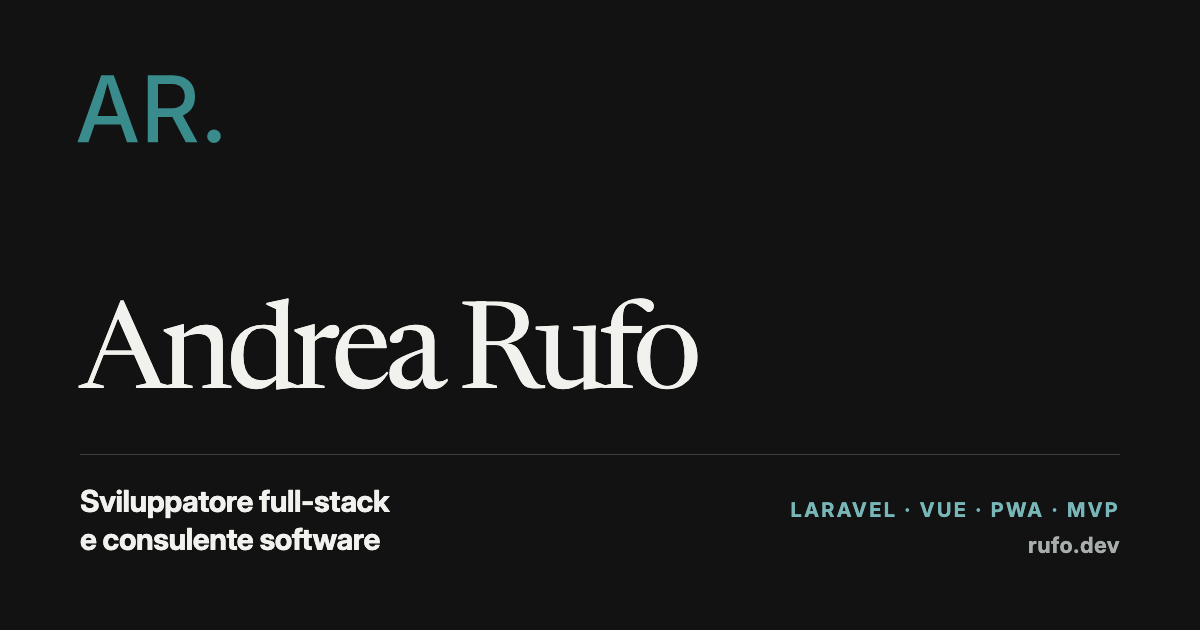
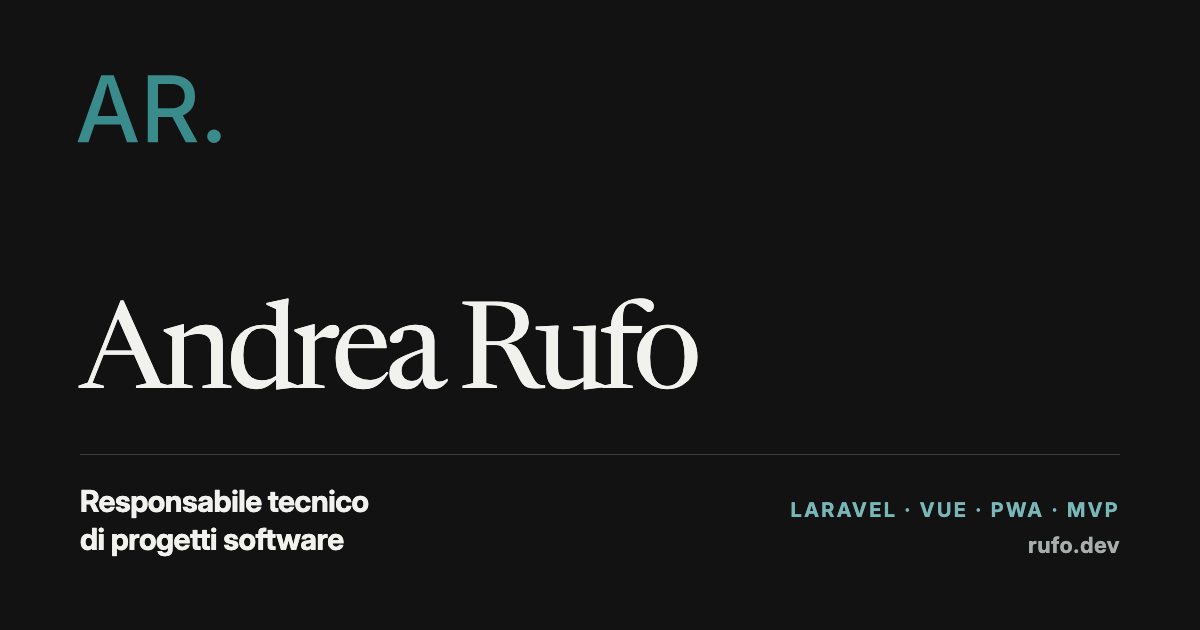
Posizionamento da responsabile tecnico di progetto: hero, profilo, servizi, meta e og:image

Changed region(s): [[0.0617, 0.754, 0.3392, 0.8746]]

diff --git a/index.html b/index.html
@@ -3,7 +3,7 @@
 <head>
   <meta charset="utf-8">
   <meta name="viewport" content="width=device-width, initial-scale=1">
-  <meta name="description" content="Andrea Rufo, sviluppatore full-stack e consulente software dal 2010. Applicazioni web con Laravel e Vue, PWA, MVP per startup e modernizzazione di sistemi legacy.">
+  <meta name="description" content="Andrea Rufo guida e sviluppa progetti software per PMI, startup e agenzie dal 2010: analisi, architettura, coordinamento del team e sviluppo con Laravel e Vue, fino alla messa online.">
   <meta name="theme-color" content="#F5F6F5" media="(prefers-color-scheme: light)">
   <meta name="theme-color" content="#121212" media="(prefers-color-scheme: dark)">
   <link rel="canonical" href="https://rufo.dev/">
@@ -12,21 +12,21 @@
   <link rel="apple-touch-icon" href="/apple-touch-icon.png">
   <meta property="og:type" content="website">
   <meta property="og:locale" content="it_IT">
-  <meta property="og:title" content="Andrea Rufo — Sviluppatore Laravel e Vue per PMI, startup e agenzie">
-  <meta property="og:description" content="Applicazioni web con Laravel e Vue, PWA, MVP per nuovi prodotti e modernizzazione di sistemi legacy.">
+  <meta property="og:title" content="Andrea Rufo — Progetti software con Laravel e Vue, dall'idea alla produzione">
+  <meta property="og:description" content="Guida tecnica e sviluppo di progetti software con Laravel e Vue: MVP, PWA, sistemi legacy, dall'idea alla produzione.">
   <meta property="og:url" content="https://rufo.dev/">
   <meta property="og:image" content="https://rufo.dev/og-image.png">
   <meta property="og:image:width" content="1200">
   <meta property="og:image:height" content="630">
-  <meta property="og:image:alt" content="Andrea Rufo — Sviluppatore Laravel e Vue">
+  <meta property="og:image:alt" content="Andrea Rufo — Responsabile tecnico di progetti software">
   <meta name="twitter:card" content="summary_large_image">
-  <meta name="twitter:title" content="Andrea Rufo — Sviluppatore Laravel e Vue per PMI, startup e agenzie">
-  <meta name="twitter:description" content="Applicazioni web con Laravel e Vue, PWA, MVP e sistemi legacy.">
+  <meta name="twitter:title" content="Andrea Rufo — Progetti software con Laravel e Vue, dall'idea alla produzione">
+  <meta name="twitter:description" content="Guida tecnica e sviluppo di progetti software con Laravel e Vue.">
   <meta name="twitter:image" content="https://rufo.dev/og-image.png">
   <link rel="preload" href="fonts/newsreader-variable.woff2" as="font" type="font/woff2" crossorigin>
   <link rel="preload" href="fonts/inter-variable.woff2" as="font" type="font/woff2" crossorigin>
   <link rel="stylesheet" href="css/style.css">
-  <title>Andrea Rufo — Sviluppatore Laravel e Vue per PMI, startup e agenzie</title>
+  <title>Andrea Rufo — Progetti software con Laravel e Vue, dall'idea alla produzione</title>
   <script type="application/ld+json">
     {
       "@context": "https://schema.org",
@@ -34,7 +34,7 @@
       "name": "Andrea Rufo",
       "url": "https://rufo.dev/",
       "image": "https://rufo.dev/og-image.png",
-      "jobTitle": "Sviluppatore full-stack e consulente software",
+      "jobTitle": "Responsabile tecnico di progetti software e sviluppatore full-stack",
       "email": "mailto:andrearufodev@gmail.com",
       "knowsAbout": ["Laravel", "PHP", "Vue.js", "Progressive Web App", "MVP", "Integrazione di intelligenza artificiale", "Modernizzazione di sistemi legacy"],
       "sameAs": [
@@ -65,11 +65,11 @@
         <p class="eyebrow">Laravel · Vue · PWA · MVP</p>
         <h1 id="hero-title">Andrea Rufo</h1>
         <div class="hero-bottom">
-          <p class="role">Sviluppatore full-stack<br>e consulente software</p>
+          <p class="role">Responsabile tecnico<br>di progetti software</p>
           <div class="hero-main">
             <div class="intro">
-              <p>Progetto e sviluppo applicazioni web con Laravel e Vue.</p>
-              <p class="intro-support">Dal 2010 affianco PMI, startup e agenzie: nuovi prodotti e MVP, Progressive Web App, evoluzione di software esistenti. Dall'analisi del problema al codice, fino alla messa in produzione.</p>
+              <p>Guido progetti software dall'idea alla produzione, e li sviluppo con Laravel e Vue.</p>
+              <p class="intro-support">Dal 2010 affianco PMI, startup e agenzie: analisi, architettura, coordinamento del team, sviluppo e messa online. Un unico riferimento tecnico per tutto il progetto.</p>
               <p class="availability">Disponibile per progetti e collaborazioni.</p>
             </div>
             <div class="hero-links">
@@ -87,7 +87,7 @@
         <h2 class="section-label" id="about-label"><span>01</span> Profilo</h2>
         <div>
           <p class="lead">Sviluppo software per il web dal 2010.</p>
-          <p class="body-copy">Ho iniziato progettando siti e interfacce e sono passato allo sviluppo frontend e full-stack, all'analisi software e alla consulenza tecnica. Oggi lavoro soprattutto con Laravel e Vue: scrivo il codice e, prima ancora, aiuto a capire cosa serve davvero al prodotto e al business. Lavoro in autonomia o dentro team tecnici e multidisciplinari.</p>
+          <p class="body-copy">Ho iniziato progettando siti e interfacce e sono passato allo sviluppo full-stack, all'analisi software e alla guida tecnica dei progetti, coordinando team di 3-4 sviluppatori. Oggi lavoro soprattutto con Laravel e Vue: aiuto a capire cosa serve davvero al prodotto e al business, imposto il progetto e lo porto in produzione, scrivendo il codice in prima persona. Lavoro in autonomia o dentro team tecnici e multidisciplinari.</p>
         </div>
       </div>
     </section>
@@ -98,23 +98,33 @@
         <div class="services">
           <article class="service">
             <span class="service-number">01</span>
+            <h3>Direzione tecnica di progetto</h3>
+            <p>Analisi dei requisiti, stima di tempi e costi, roadmap, scelte architetturali e coordinamento del team. Se in azienda non c'è un responsabile tecnico, lo sono io per la durata del progetto.</p>
+          </article>
+          <article class="service">
+            <span class="service-number">02</span>
             <h3>Applicazioni web con Laravel e Vue</h3>
             <p>Piattaforme, gestionali, portali e API su misura, progettati per crescere ed essere mantenuti nel tempo.</p>
           </article>
           <article class="service">
-            <span class="service-number">02</span>
+            <span class="service-number">03</span>
             <h3>MVP per nuovi prodotti</h3>
             <p>Dall'idea a una prima versione funzionante in tempi brevi: requisiti essenziali, sviluppo rapido e una base di codice pronta a evolvere.</p>
           </article>
           <article class="service">
-            <span class="service-number">03</span>
+            <span class="service-number">04</span>
             <h3>Progressive Web App</h3>
             <p>Applicazioni veloci, installabili e utilizzabili anche offline, con un solo codice per desktop e mobile.</p>
           </article>
           <article class="service">
-            <span class="service-number">04</span>
+            <span class="service-number">05</span>
             <h3>Sistemi legacy</h3>
             <p>Analisi, messa in sicurezza e modernizzazione di software esistenti: aggiornamenti, refactoring e migrazioni graduali, senza fermare il lavoro.</p>
+          </article>
+          <article class="service">
+            <span class="service-number">06</span>
+            <h3>Messa online e infrastruttura</h3>
+            <p>Server Linux e ambienti Docker configurati e documentati: rilasci prevedibili, backup e un software che resta online in modo affidabile.</p>
           </article>
         </div>
       </div>
@@ -219,7 +229,7 @@
             <p>Dati organizzati bene fin dall'inizio: report affidabili, ricerche veloci e un sistema che regge quando i dati crescono.</p>
           </li>
           <li>
-            <h3>Docker / ambienti</h3>
+            <h3>Docker / server Linux</h3>
             <p>Sviluppo, test e produzione configurati allo stesso modo: rilasci prevedibili e meno sorprese alla messa online.</p>
           </li>
         </ul>
@@ -317,7 +327,7 @@
         </div>
         <footer class="footer">
           <span>Andrea Rufo</span>
-          <span>Sviluppatore full-stack · Laravel e Vue</span>
+          <span>Responsabile tecnico · Laravel e Vue</span>
         </footer>
       </div>
     </section>
